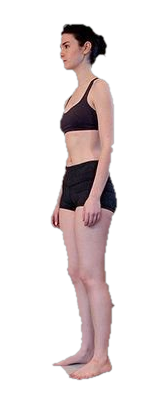
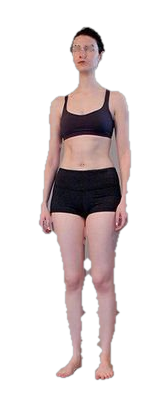
Athlete 360: interpolate to 36 frames + settle on real keyframes
Smoother rotation by raising the frame count, plus a slightly more dramatic
neon stage.

Frames 12 -> 36 (interpolation)
- scripts/interpolate-360.py (new): OpenCV DIS optical-flow frame interpolation
  (bidirectional warp + blend of RGB and alpha), factor-configurable. Optional
  --despeckle inpaints tiny dark cut-out specks so the flow can't smear them.
  With --hotspots-in it also produces hotspots on the new frame grid, linearly
  interpolating each zone between adjacent keyframes that both define it (so the
  sticker zones ride the synthetic frames and vanish where a zone isn't visible).
  No GPU/model download — best-effort; quality tracks the source.
- The 12 stabilized cut-outs move to `_src/` (pipeline source: cutout -> stabilize
  -> interpolate); the 36 display frames live at the served path. Frame list comes
  from the DB, so this is a data swap, not a code change.
- media_360 updated to 36 frames + the interpolated 36-grid hotspots (audited RPC).

Viewer
- Settle onto every settleStep-th frame (config; 3 => the 12 real angles of a
  36-frame set). Motion uses all 36 frames for smoothness; at rest the figure
  lands on a clean source photo instead of a synthetic/blended frame, so the
  interpolation artifacts (which blur past in motion) never sit still on screen.

Neon stage — a touch more dramatic
- Stronger ambient glow, brighter/bolder beams and platform; STAGE_MOTION
  intensity 1 -> 1.35, slightly livelier pulse. All from config; still disabled
[…]

Changed region(s): [[0.2381, 0.0608, 0.8036, 0.9722]]

diff --git a/lib/config.ts b/lib/config.ts
@@ -138,10 +138,17 @@ export const VIEWER_360 = {
    */
   crossfade: true,
   /**
-   * When motion stops, ease onto the nearest whole frame (a soft detent) so the
-   * figure rests on one crisp frame instead of a blended half-frame.
+   * When motion stops, ease onto the nearest frame (a soft detent) so the figure
+   * rests on one crisp frame instead of a blended half-frame.
    */
   snapOnSettle: true,
+  /**
+   * Settle only onto every Nth frame. With interpolated sequences the real
+   * source frames are every `settleStep`-th (here 3 => the 12 real angles of a
+   * 36-frame set), so rest always lands on a clean photo while motion still uses
+   * all frames for smoothness. Set 1 to settle onto any frame.
+   */
+  settleStep: 3,
   /**
    * On-screen size of the athlete figure inside the full-screen stage. Height
    * is capped to a share of the viewport so the whole body (head to feet) fits;
@@ -160,11 +167,11 @@ export const VIEWER_360 = {
  * so nothing about the animation is hardcoded in the stylesheet.
  */
 export const STAGE_MOTION = {
-  breatheSec: 7,   // ambient glow "breathing"
-  beamSec: 6.5,    // neon beams pulse
-  floorSec: 24,    // perspective grid drift
-  dustSec: 16,     // floating dust particles
-  intensity: 1,    // amplitude scalar (1 = elegant default)
+  breatheSec: 6,    // ambient glow "breathing"
+  beamSec: 5.5,     // neon beams pulse
+  floorSec: 22,     // perspective grid drift
+  dustSec: 15,      // floating dust particles
+  intensity: 1.35,  // amplitude scalar (1 = elegant, >1 = more dramatic neon)
 } as const;
 
 export function stageMotionVars(): Record<string, string> {

diff --git a/app/globals.css b/app/globals.css
@@ -112,8 +112,8 @@ body {
   z-index: 0;
   pointer-events: none;
   background:
-    radial-gradient(58% 46% at 50% 34%, rgba(255, 45, 85, 0.18), transparent 70%),
-    radial-gradient(130% 80% at 50% 118%, rgba(255, 45, 85, 0.1), transparent 62%);
+    radial-gradient(58% 46% at 50% 34%, rgba(255, 45, 85, 0.24), transparent 70%),
+    radial-gradient(130% 80% at 50% 118%, rgba(255, 45, 85, 0.14), transparent 62%);
 }
 .stage-floor {
   position: absolute;
@@ -139,8 +139,8 @@ body {
   width: 100%;
   height: 100%;
   pointer-events: none;
-  opacity: 0.5;
-  filter: drop-shadow(0 0 5px rgba(255, 45, 85, 0.5));
+  opacity: 0.62;
+  filter: drop-shadow(0 0 7px rgba(255, 45, 85, 0.6));
 }
 .stage-platform {
   position: absolute;
@@ -155,8 +155,8 @@ body {
   border-radius: 50%;
   background: radial-gradient(
     50% 58% at 50% 50%,
-    rgba(255, 45, 85, 0.55),
-    rgba(255, 45, 85, 0.14) 46%,
+    rgba(255, 45, 85, 0.64),
+    rgba(255, 45, 85, 0.18) 46%,
     transparent 72%
   );
 }
@@ -165,7 +165,7 @@ body {
   position: absolute;
   inset: 0;
   border-radius: 50%;
-  box-shadow: inset 0 0 0 1px rgba(255, 45, 85, 0.32);
+  box-shadow: inset 0 0 0 1px rgba(255, 45, 85, 0.42);
 }
 .stage-vignette {
   position: absolute;

diff --git a/components/Viewer360.tsx b/components/Viewer360.tsx
@@ -97,10 +97,12 @@ export function Viewer360({
         if (Math.abs(velRef.current) < VIEWER_360.momentumStopThreshold) velRef.current = 0;
       }
 
-      // Once motion has stopped, settle onto the nearest whole frame so the
-      // figure rests on a crisp frame, not a blended half-frame (ghosting).
+      // Once motion has stopped, settle onto the nearest real frame (every
+      // settleStep-th) so the figure rests on a crisp source photo, not a
+      // blended or synthetic frame. Motion still uses all frames for smoothness.
       if (VIEWER_360.snapOnSettle && !draggingRef.current && velRef.current === 0) {
-        targetRef.current = norm(Math.round(targetRef.current));
+        const step = Math.max(1, VIEWER_360.settleStep);
+        targetRef.current = norm(Math.round(targetRef.current / step) * step);
       }
 
       // Ease the rendered position toward the target (frame-rate independent).

diff --git a/components/AthleteStage.tsx b/components/AthleteStage.tsx
@@ -27,7 +27,7 @@ export function AthleteStage({ children }: { children: ReactNode }) {
         preserveAspectRatio="xMidYMid slice"
         aria-hidden
       >
-        <g fill="none" stroke="#ff2d55" strokeWidth="1.4" strokeLinecap="round">
+        <g fill="none" stroke="#ff2d55" strokeWidth="1.7" strokeLinecap="round">
           <line x1="150" y1="-20" x2="332" y2="640" />
           <line x1="850" y1="-20" x2="668" y2="640" />
           <line x1="44" y1="130" x2="-26" y2="640" strokeOpacity="0.55" />

diff --git a/scripts/interpolate-360.py b/scripts/interpolate-360.py
@@ -1,0 +1,160 @@
+#!/usr/bin/env python3
+"""
+Interpolate 360° athlete frames to a higher count for smoother rotation.
+
+Image-sequence rotation only looks fluid with enough angles. A 12-shot turntable
+(30°/frame) always steps; this synthesizes in-between frames with OpenCV DIS
+optical flow (bidirectional warp + blend of both RGB and alpha) to reach e.g. 36
+frames (10°/frame). No GPU/model download — runs anywhere OpenCV runs. It is a
+best-effort synthesis: quality tracks the source (aligned, background-free frames
+interpolate cleanest), so preview before shipping.
+
+Input frames must be the STABILIZED cut-outs (aligned + transparent), in rotation
+order. With `--hotspots-in`, it also produces hotspots on the new frame grid by
+linearly interpolating each zone between adjacent keyframes that both define it
+(so the sticker zones ride the synthetic frames and vanish where a zone isn't
+visible). Nothing here is athlete-specific — the factor and paths are arguments.
+
+Usage:
+  python3 scripts/interpolate-360.py \
+      --src public/media/atlet-360/rani-pratiwi/_src \
+      --out public/media/atlet-360/rani-pratiwi \
+      --pattern 'frame_*.png' --factor 3 \
+      --hotspots-in /tmp/hot12.json --hotspots-out /tmp/hot36.json
+"""
+from __future__ import annotations
+
+import argparse
+import glob
+import json
+import os
+import sys
+
+import cv2
+import numpy as np
+from PIL import Image
+
+
+def load_rgba(p):
+    im = np.array(Image.open(p).convert("RGBA"))
+    return im[:, :, :3].astype(np.float32), im[:, :, 3].astype(np.float32) / 255.0
+
+
+def despeckle(rgb, a, max_area=60, dark=60):
+    """Inpaint SMALL dark specks sitting on the body (low-res cut-out noise that
+    the flow would otherwise smear into migrating blobs). Large dark regions
+    (clothing) are kept: only tiny connected dark components are removed."""
+    body = (a > 0.5).astype(np.uint8)
+    gray = cv2.cvtColor(rgb.astype(np.uint8), cv2.COLOR_RGB2GRAY)
+    darkmask = ((gray < dark) & (body > 0)).astype(np.uint8)
+    ncomp, lbl, stats, _ = cv2.connectedComponentsWithStats(darkmask, 8)
+    speck = np.zeros_like(darkmask)
+    for c in range(1, ncomp):
+        if stats[c, cv2.CC_STAT_AREA] <= max_area:
+            speck[lbl == c] = 255
+    if speck.any():
+        speck = cv2.dilate(speck, cv2.getStructuringElement(cv2.MORPH_ELLIPSE, (3, 3)), 1)
+        rgb = cv2.inpaint(rgb.astype(np.uint8), speck, 3, cv2.INPAINT_TELEA).astype(np.float32)
+    return rgb
+
+
+def flow_pair(rgbA, aA, rgbB, aB):
+    """DIS optical flow both ways, computed on the alpha-masked (on-black) image
+    so the (now irrelevant) studio background can't pull the flow."""
+    gA = cv2.cvtColor((rgbA * aA[:, :, None]).astype(np.uint8), cv2.COLOR_RGB2GRAY)
+    gB = cv2.cvtColor((rgbB * aB[:, :, None]).astype(np.uint8), cv2.COLOR_RGB2GRAY)
+    dis = cv2.DISOpticalFlow_create(cv2.DISOPTICAL_FLOW_PRESET_MEDIUM)
+    return dis.calc(gA, gB, None), dis.calc(gB, gA, None)
+
+
+def synth(rgbA, aA, rgbB, aB, F01, F10, t, grid):
+    X, Y = grid
+    m0 = (X - t * F01[:, :, 0], Y - t * F01[:, :, 1])
+    m1 = (X - (1 - t) * F10[:, :, 0], Y - (1 - t) * F10[:, :, 1])
+    w0 = cv2.remap(rgbA, m0[0], m0[1], cv2.INTER_LINEAR)
+    w1 = cv2.remap(rgbB, m1[0], m1[1], cv2.INTER_LINEAR)
+    a0 = cv2.remap(aA, m0[0], m0[1], cv2.INTER_LINEAR)
+    a1 = cv2.remap(aB, m1[0], m1[1], cv2.INTER_LINEAR)
+    rgb = np.clip((1 - t) * w0 + t * w1, 0, 255).astype(np.uint8)
+    a = (np.clip((1 - t) * a0 + t * a1, 0, 1) * 255).astype(np.uint8)
+    return np.dstack([rgb, a])
+
+
+def interp_hotspots(hots, n_key, factor):
+    """Place each zone on the factor*n_key grid, interpolating linearly between
+    adjacent (in rotation, incl. wrap) keyframes that both define it."""
+    out = []
+    for h in hots:
+        pts_in = {int(k): (float(v["x"]), float(v["y"])) for k, v in h["points"].items()}
+        keys = sorted(pts_in)
+        new_pts = {}
+        for k in keys:  # keyframe k (1-based) -> new index
+            new_pts[str((k - 1) * factor + 1)] = {"x": round(pts_in[k][0], 4), "y": round(pts_in[k][1], 4)}
+        for a in keys:  # interpolate across each adjacent visible pair
+            b = a + 1 if a < n_key else 1
+            if b not in pts_in:
+                continue
+            (ax, ay), (bx, by) = pts_in[a], pts_in[b]
+            base = (a - 1) * factor + 1
+            for j in range(1, factor):
+                t = j / factor
+                new_pts[str(base + j)] = {"x": round(ax + (bx - ax) * t, 4), "y": round(ay + (by - ay) * t, 4)}
+        out.append({"label": h["label"], "athlete_zone_id": h["athlete_zone_id"], "points": new_pts})
+    return out
+
+
+def main() -> int:
+    ap = argparse.ArgumentParser(description="Interpolate 360 frames (OpenCV DIS flow) for smoother rotation.")
+    ap.add_argument("--src", required=True, help="Folder of stabilized keyframes.")
+    ap.add_argument("--out", required=True, help="Folder for the interpolated display frames.")
+    ap.add_argument("--pattern", default="frame_*.png")
+    ap.add_argument("--factor", type=int, default=3, help="Frames per keyframe gap (3 => 12 -> 36).")
+    ap.add_argument("--despeckle", action="store_true", help="Inpaint tiny dark cut-out specks before flow.")
+    ap.add_argument("--hotspots-in", default="")
+    ap.add_argument("--hotspots-out", default="")
+    args = ap.parse_args()
+
+    paths = sorted(glob.glob(os.path.join(args.src, args.pattern)))
+    if len(paths) < 2:
+        print(f"Need >=2 keyframes in {args.src}", file=sys.stderr)
+        return 1
+    n = len(paths)
+    frames = [load_rgba(p) for p in paths]
+    if args.despeckle:
+        frames = [(despeckle(rgb, a), a) for rgb, a in frames]
+    h, w = frames[0][1].shape
+    X, Y = np.meshgrid(np.arange(w), np.arange(h))
+    grid = (X.astype(np.float32), Y.astype(np.float32))
+    os.makedirs(args.out, exist_ok=True)
+
+    total = n * args.factor
+    written = 0
+    for i in range(n):
+        a_rgb, a_a = frames[i]
+        b_rgb, b_a = frames[(i + 1) % n]
+        F01, F10 = flow_pair(a_rgb, a_a, b_rgb, b_a)
+        for j in range(args.factor):
+            idx = i * args.factor + j  # 0-based display index
+            if j == 0:
+                rgba = np.dstack([a_rgb.astype(np.uint8), (a_a * 255).astype(np.uint8)])  # keyframe verbatim
+            else:
+                rgba = synth(a_rgb, a_a, b_rgb, b_a, F01, F10, j / args.factor, grid)
+            Image.fromarray(rgba, "RGBA").save(os.path.join(args.out, f"frame_{idx + 1:02d}.png"))
+            written += 1
+        print(f"gap {i+1}->{(i % n)+2 if i < n-1 else 1}: wrote {args.factor} frames", file=sys.stderr)
+    print(f"{written}/{total} display frames -> {args.out}", file=sys.stderr)
+
+    if args.hotspots_in:
+        hots = json.load(open(args.hotspots_in))
+        new = interp_hotspots(hots, n, args.factor)
+        js = json.dumps(new)
+        if args.hotspots_out:
+            open(args.hotspots_out, "w").write(js)
+            print(f"hotspots ({n} -> {total}-grid) -> {args.hotspots_out}", file=sys.stderr)
+        else:
+            print(js)
+    return 0
+
+
+if __name__ == "__main__":
+    raise SystemExit(main())
